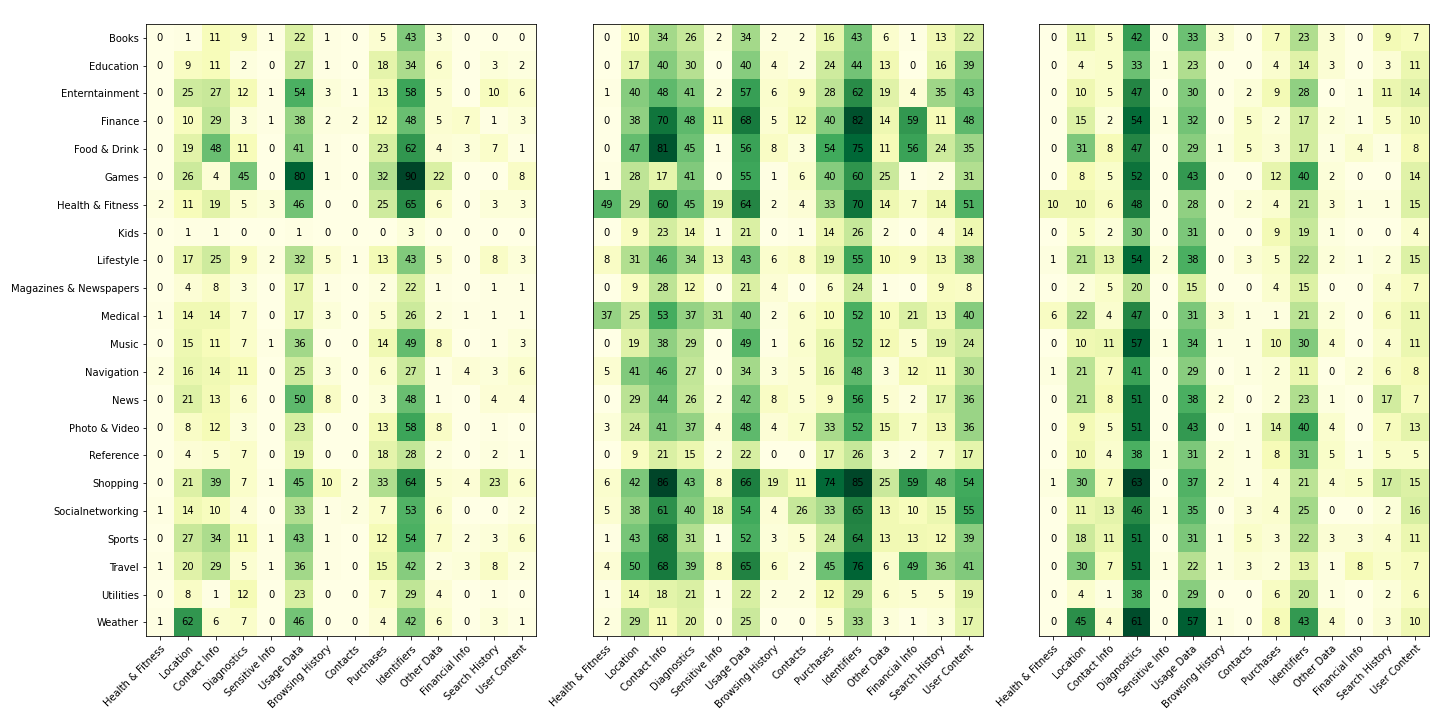
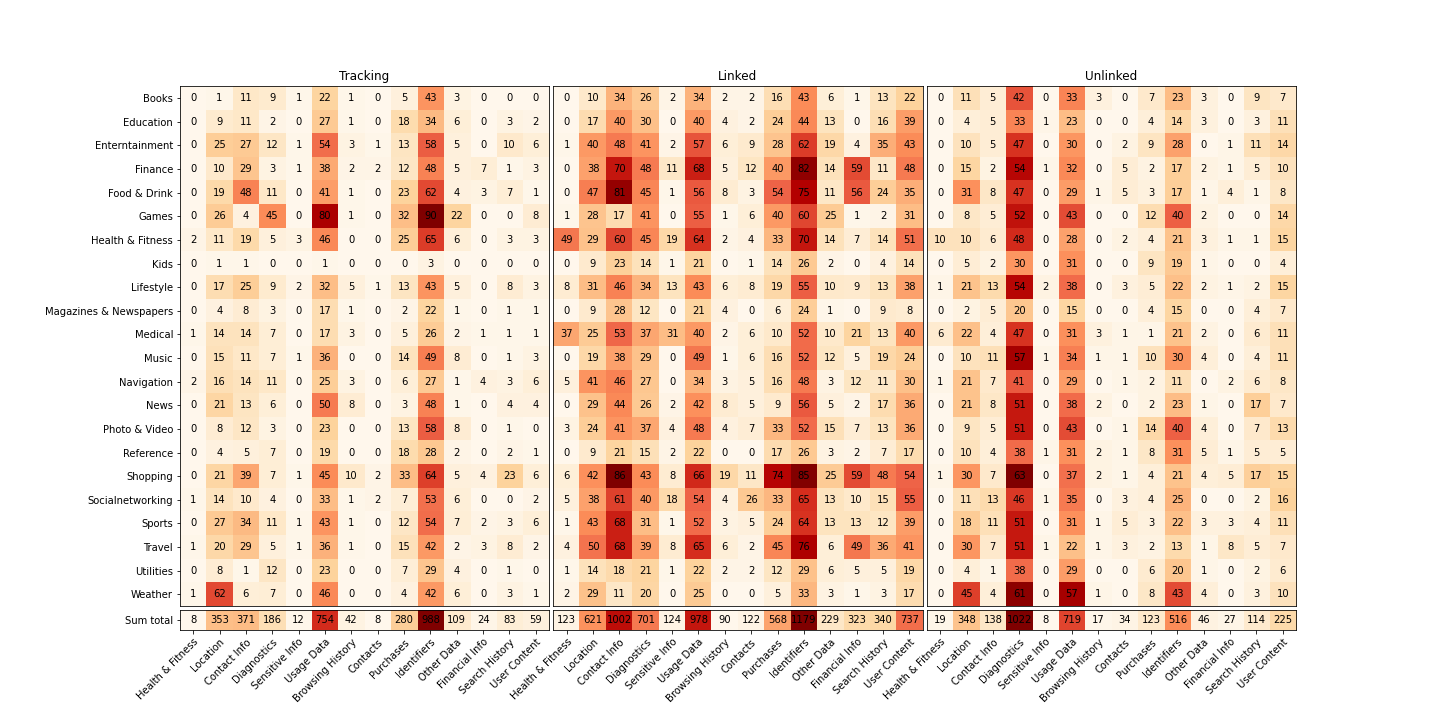
final heatmap script

diff --git a/notebook/heatmap.py b/notebook/heatmap.py
@@ -4,6 +4,7 @@ import pandas as pd
 import numpy as np
 import matplotlib
 import matplotlib.pyplot as plt
+from matplotlib import gridspec
 
 # %% Load raw data files
 
@@ -24,51 +25,86 @@ label_cols = apps[['category'] + tracking_colnames + linked_colnames + unlinked_
 
 labels = label_cols.groupby('category').sum().reset_index()
 
-totals = label_cols.sum()
-
 labels = labels.drop(columns=['category'])
 
 tLabels = labels[tracking_colnames]
 lLabels = labels[linked_colnames]
 uLabels = labels[unlinked_colnames]
 
+tTotals = tLabels.sum()
+lTotals = lLabels.sum()
+uTotals = uLabels.sum()
+
 labels = labels
 tLabels = tLabels.values
 lLabels = lLabels.values
 uLabels = uLabels.values
 
+sumLabel = ['Sum total']
+
 # %% Create plot
 
-fig, axes = plt.subplots(ncols=3, figsize=(20, 10))
+grid_rows = len(categories) + 1
+grid_cols = len(data_types) * 3
 
-ax_t, ax_l, ax_u = axes
+fig = plt.figure(figsize=(20,10))
 
-im_t = ax_t.imshow(tLabels, cmap='YlGn') #Oranges
-im_l = ax_l.imshow(lLabels, cmap='YlGn')
-im_u = ax_u.imshow(uLabels, cmap='YlGn')
+# Top subplots
+ax_t = plt.subplot2grid((grid_rows,grid_cols), (0,0), rowspan=len(categories), colspan=len(data_types))
+ax_l = plt.subplot2grid((grid_rows,grid_cols), (0,len(data_types)), rowspan=len(categories), colspan=len(data_types))
+ax_u = plt.subplot2grid((grid_rows,grid_cols), (0,2 * len(data_types)), rowspan=len(categories), colspan=len(data_types))
 
-# Show all ticks
-ax_t.set_xticks(np.arange(len(data_types)))
-ax_l.set_xticks(np.arange(len(data_types)))
-ax_u.set_xticks(np.arange(len(data_types)))
+# Bottom subplots
+ax_tc = plt.subplot2grid((grid_rows,grid_cols), (len(categories), 0), rowspan=1, colspan=len(data_types))
+ax_lc = plt.subplot2grid((grid_rows,grid_cols), (len(categories), len(data_types)), rowspan=1, colspan=len(data_types))
+ax_uc = plt.subplot2grid((grid_rows,grid_cols), (len(categories), 2*len(data_types)), rowspan=1, colspan=len(data_types))
+
+# Create top heatmaps
+im_t = ax_t.imshow(tLabels, cmap='OrRd', aspect='auto') 
+im_l = ax_l.imshow(lLabels, cmap='OrRd', aspect='auto')
+im_u = ax_u.imshow(uLabels, cmap='OrRd', aspect='auto')
+
+# Create bottom heatmaps
+im_tc = ax_tc.imshow(np.array(tTotals.values.reshape(1,len(tTotals))), cmap='OrRd', aspect='auto')
+im_lc = ax_lc.imshow(np.array(lTotals.values.reshape(1,len(lTotals))), cmap='OrRd', aspect='auto')
+im_uc = ax_uc.imshow(np.array(uTotals.values.reshape(1,len(uTotals))), cmap='OrRd', aspect='auto')
+
+# Show ticks
+ax_t.set_xticks([])
+ax_l.set_xticks([])
+ax_u.set_xticks([])
+
+ax_tc.set_xticks(np.arange(len(data_types)))
+ax_lc.set_xticks(np.arange(len(data_types)))
+ax_uc.set_xticks(np.arange(len(data_types)))
 
 ax_t.set_yticks(np.arange(len(categories)))
 ax_l.set_yticks([])
 ax_u.set_yticks([])
 
-# Label ticks 
-ax_t.set_xticklabels(data_types)
-ax_l.set_xticklabels(data_types)
-ax_u.set_xticklabels(data_types)
+ax_tc.set_yticks(np.arange(len(sumLabel)))
+ax_lc.set_yticks([])
+ax_uc.set_yticks([])
 
-plt.setp(ax_t.get_xticklabels(), rotation=45, ha="right",
+# Label ticks 
+ax_tc.set_xticklabels(data_types)
+ax_lc.set_xticklabels(data_types)
+ax_uc.set_xticklabels(data_types)
+
+plt.setp(ax_tc.get_xticklabels(), rotation=45, ha="right",
          rotation_mode="anchor")
-plt.setp(ax_l.get_xticklabels(), rotation=45, ha="right",
+plt.setp(ax_lc.get_xticklabels(), rotation=45, ha="right",
          rotation_mode="anchor")
-plt.setp(ax_u.get_xticklabels(), rotation=45, ha="right",
+plt.setp(ax_uc.get_xticklabels(), rotation=45, ha="right",
          rotation_mode="anchor")
 
 ax_t.set_yticklabels(categories)
+ax_tc.set_yticklabels(sumLabel)
+
+# Plot titles
+ax_t.title.set_text('Tracking')
+ax_l.title.set_text('Linked')
+ax_u.title.set_text('Unlinked')
 
 # Loop over data dimensions and create text annotations.
 for i in range(len(categories)):
@@ -77,7 +113,11 @@ for i in range(len(categories)):
         ax_l.text(j, i, int(lLabels[i, j]), ha="center", va="center")
         ax_u.text(j, i, int(uLabels[i, j]), ha="center", va="center")
 
-fig.tight_layout()
+for i in range(len(data_types)):
+    ax_tc.text(i,0, int(tTotals[i]), ha="center", va="center")
+    ax_lc.text(i,0, int(lTotals[i]), ha="center", va="center")
+    ax_uc.text(i,0, int(uTotals[i]), ha="center", va="center")
+
 plt.savefig('figures/labels_heatmap.png')
 
 # %%
